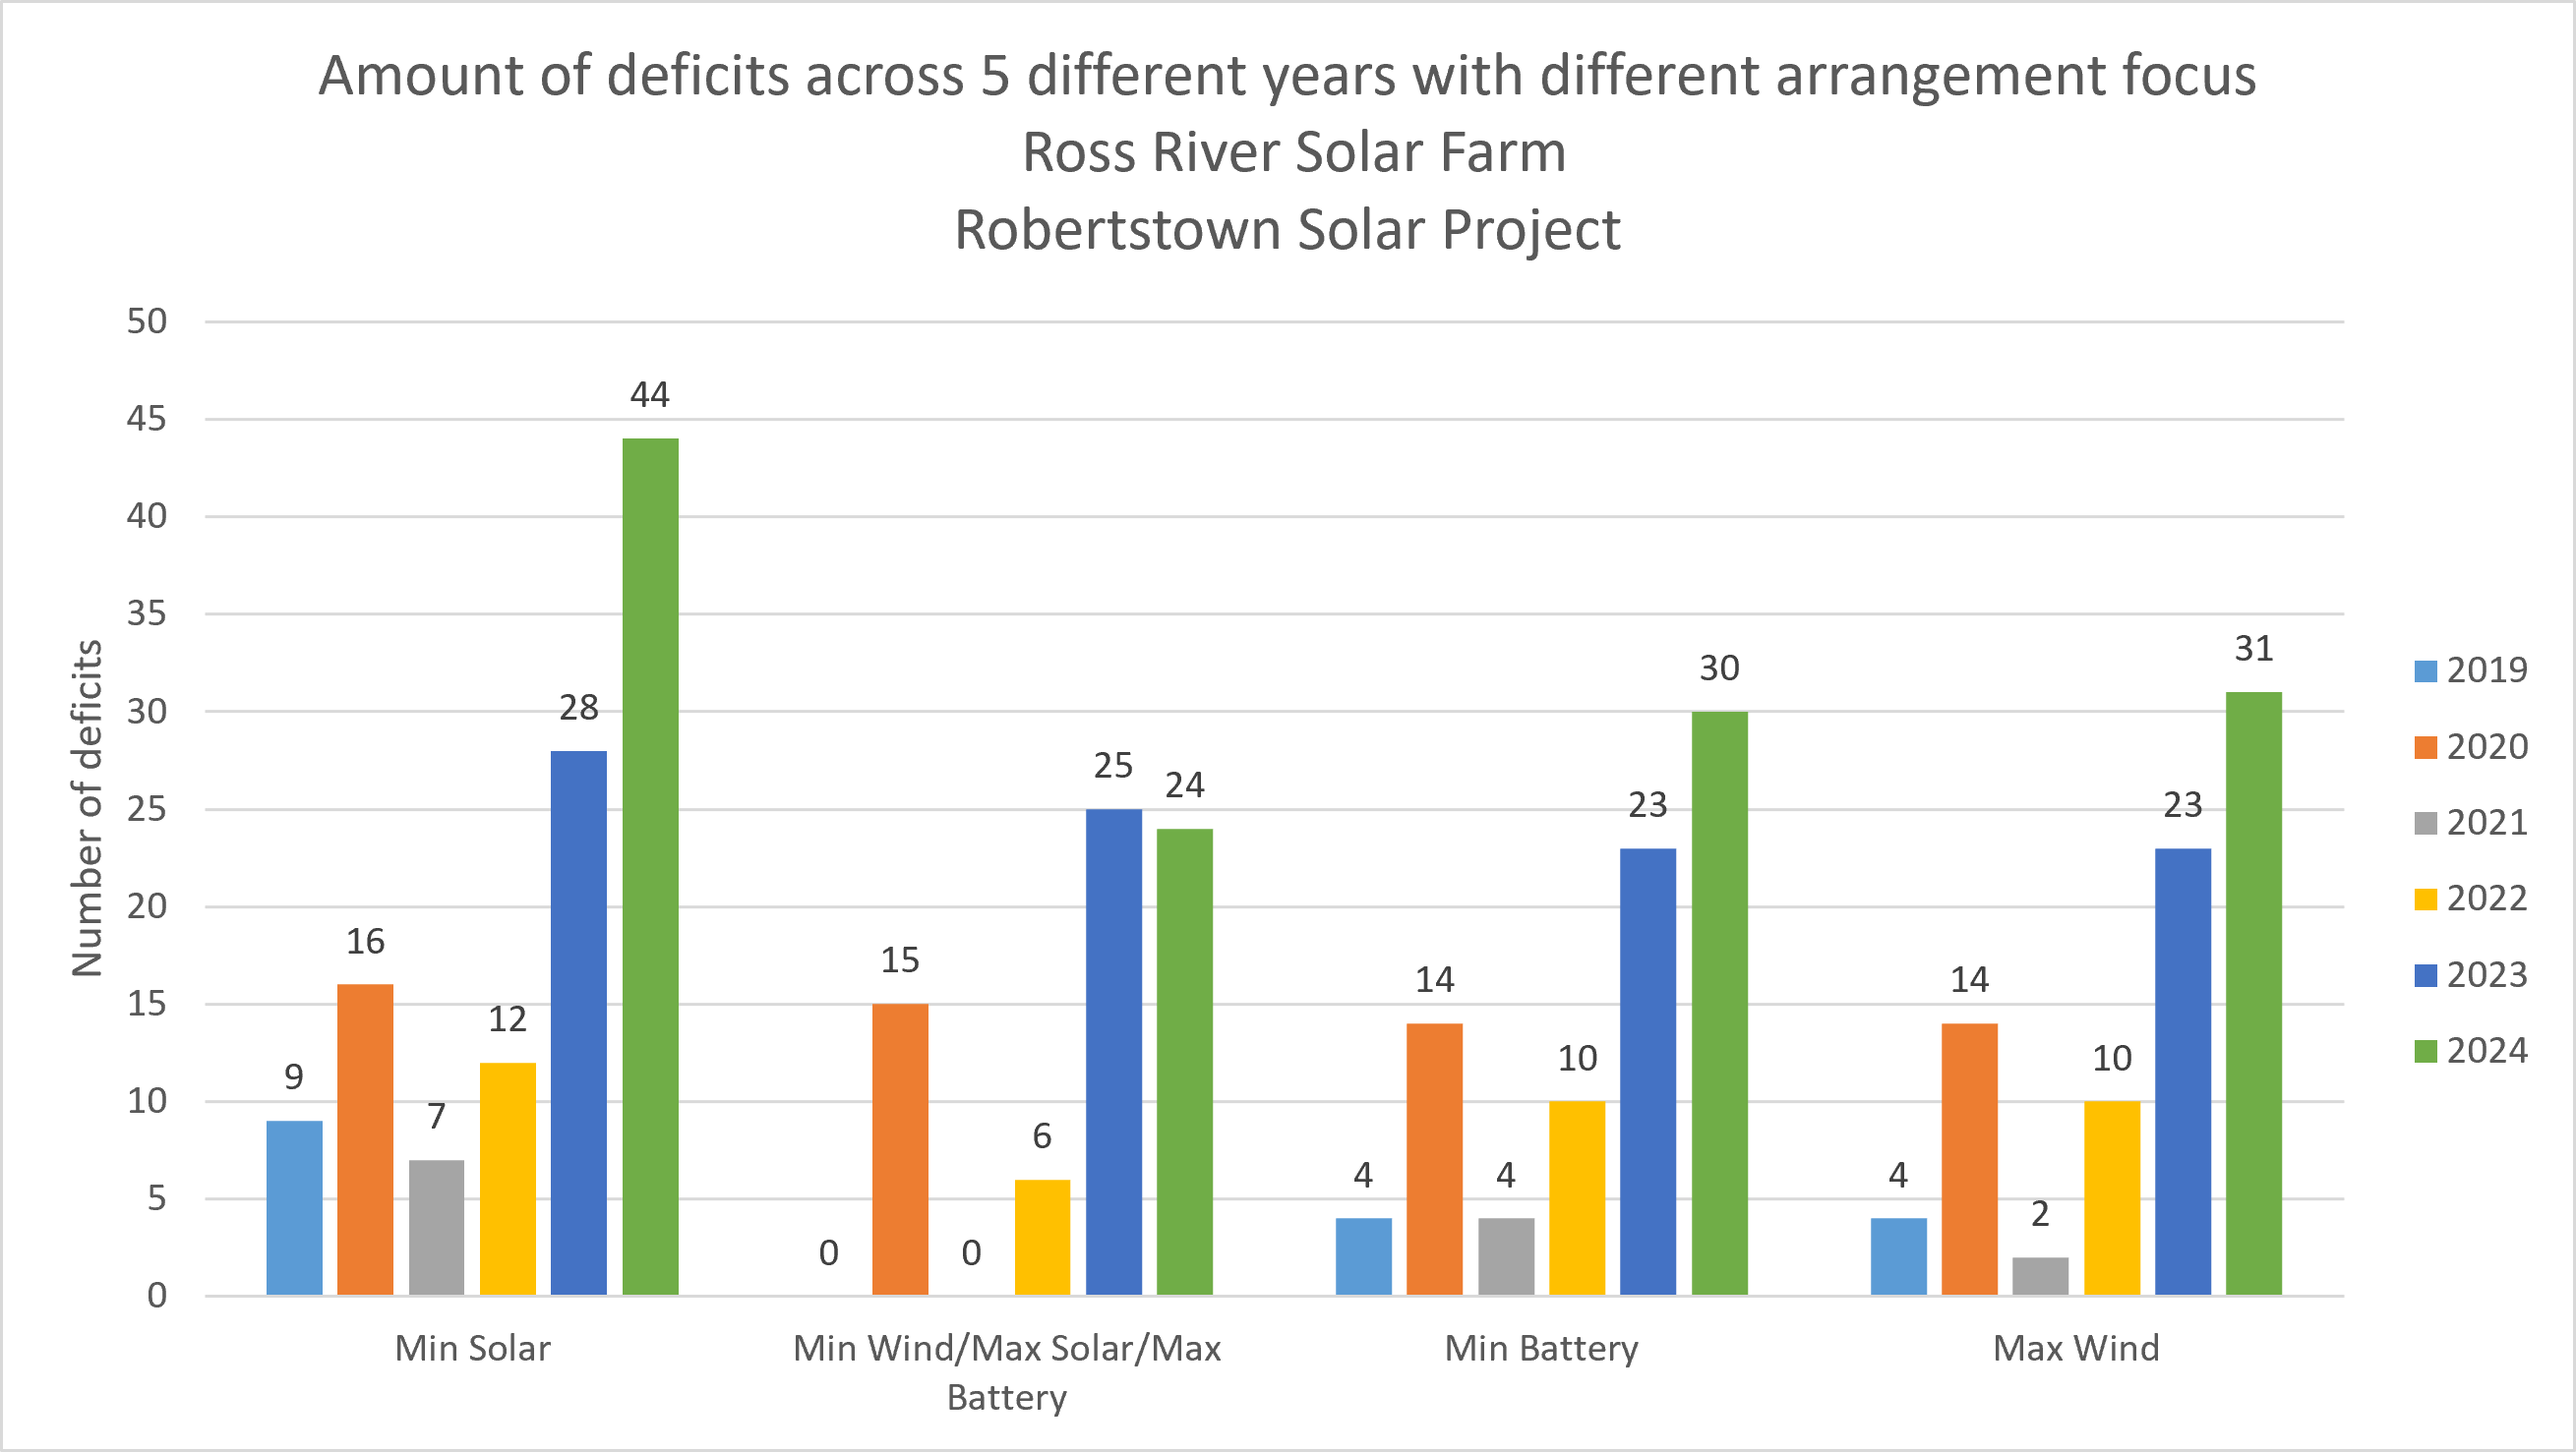
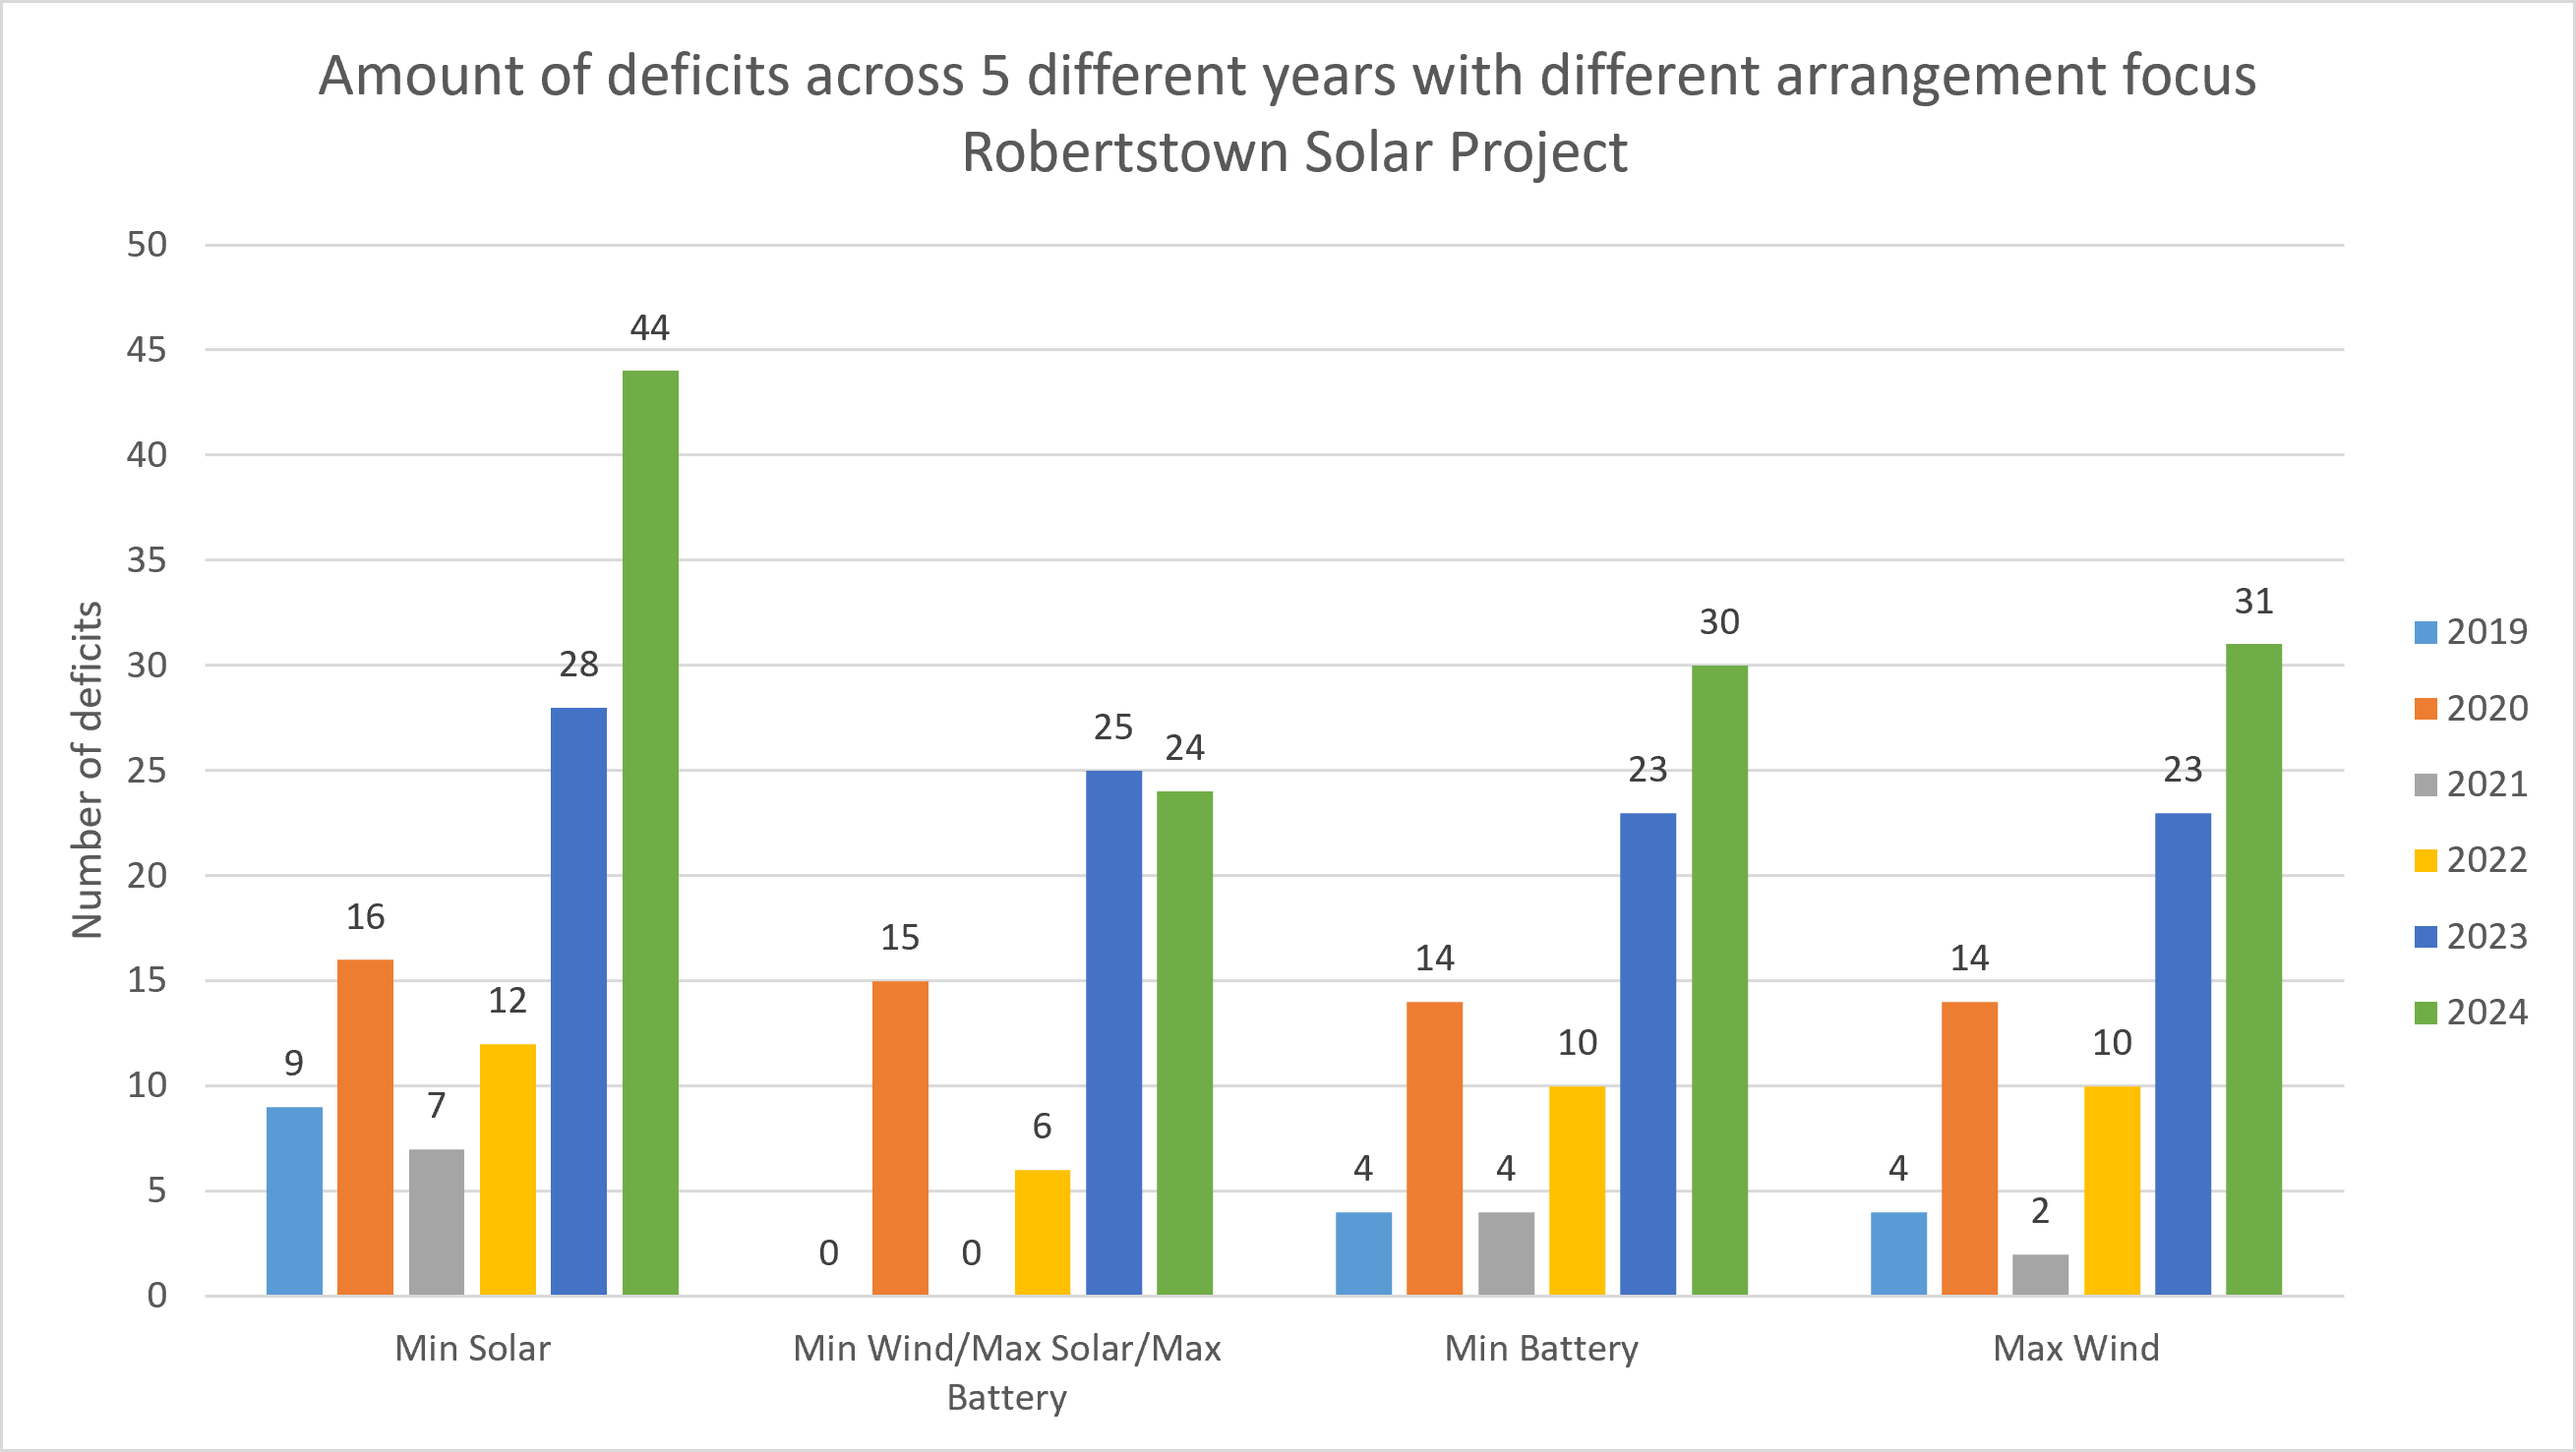
uploaded more graphics

diff --git a/Codes/Explore initial guess.py b/Codes/Explore initial guess.py
@@ -7,7 +7,7 @@ from scipy.optimize import differential_evolution
 directory_main = "C:/Users/joyli//OneDrive/Desktop/FYP/"
 
 # ── Location to test (hardcoded index from fyp_location.csv) ─────────────────
-LOC_INDEX = 35 #15 is fitzrot sample data (2023 issue), #23 is banana (2020)
+LOC_INDEX = 54 #15 is fitzrot sample data (2023 issue), #23 is banana (2020)
 BASE_YEAR  = "2021"
 
 # ── Demand profile ────────────────────────────────────────────────────────────
@@ -216,9 +216,9 @@ df.to_csv(output_path, index=False)
 # ── Multi-year robustness section ─────────────────────────────────────────────
 # Hardcode a plant arrangement to test across all years
 # Change these values to whatever arrangement you want to explore
-HARDCODED_SOLAR_MW   = 242.69  # MW
-HARDCODED_WIND_MW    = 32.63 # MW
-HARDCODED_BATTERY_MW = 93.97  # MW
+HARDCODED_SOLAR_MW   = 298.41  # MW
+HARDCODED_WIND_MW    = 44.97 # MW
+HARDCODED_BATTERY_MW = 100.82  # MW
 
 # Years to test
 data_years = [2019, 2020, 2021, 2022, 2023, 2024]
